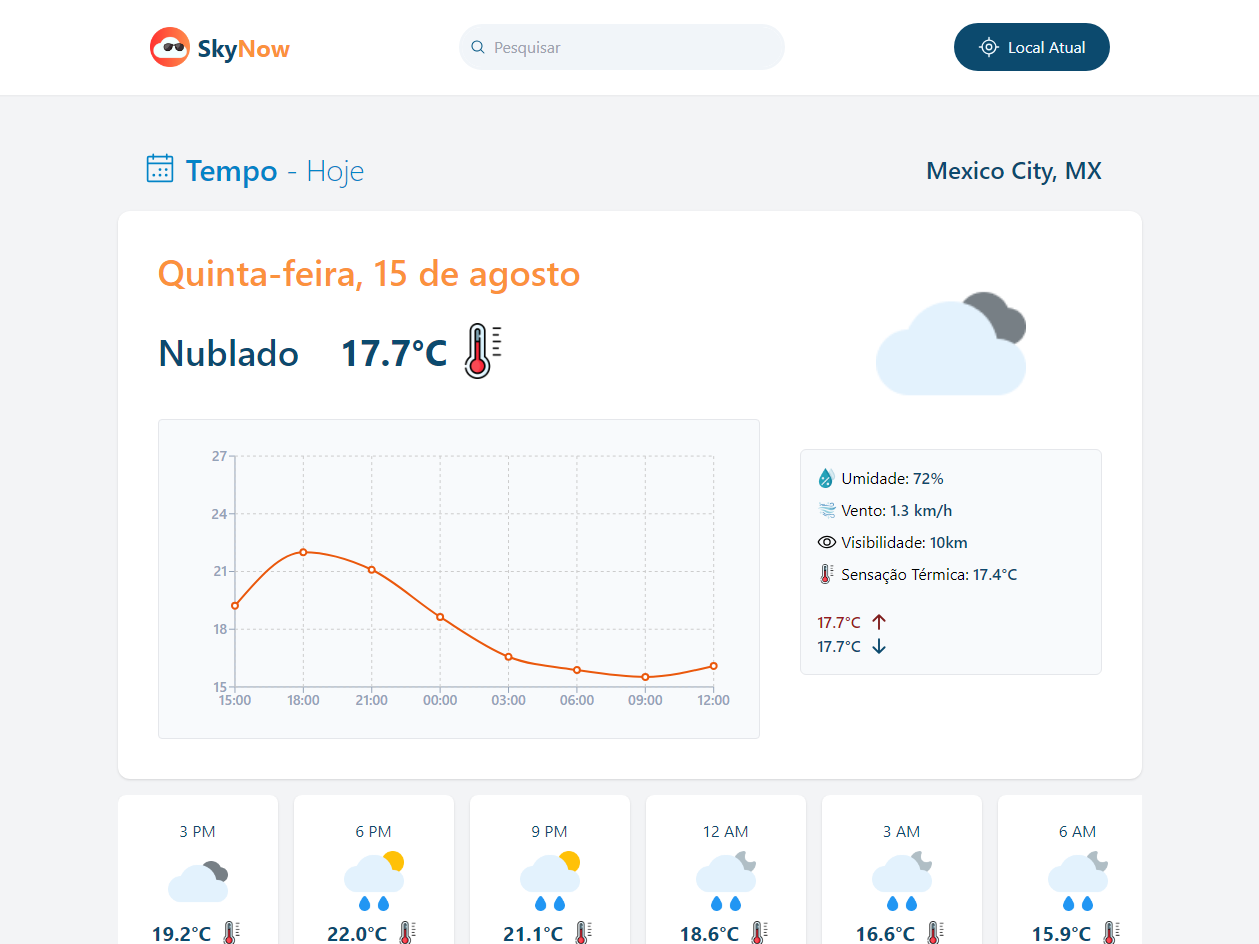
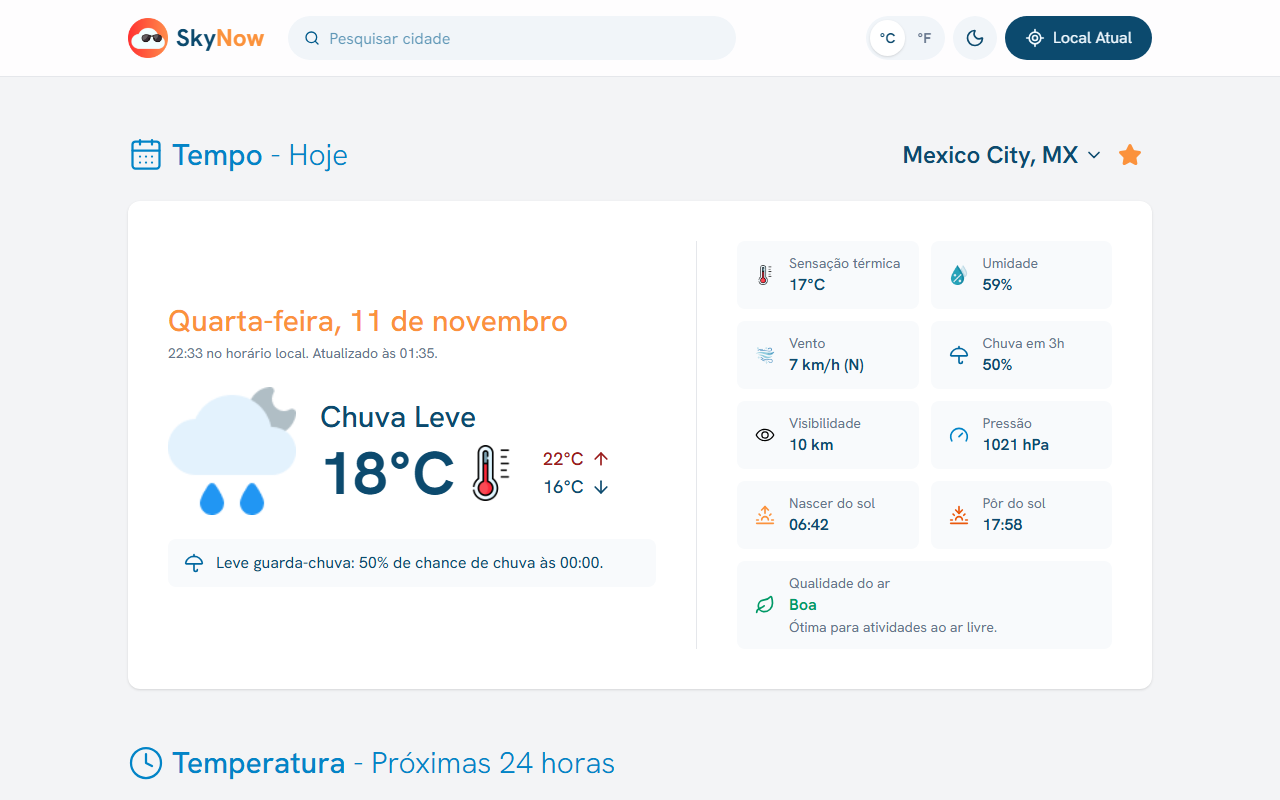
feat: add gwent remake, dev to dev and pura armonia projects

diff --git a/index.html b/index.html
@@ -216,46 +216,46 @@
                     class="window-shot"
                     src="/src/assets/sky-now.png"
                     alt="Tela do SkyNow, app de clima e previsão do tempo"
-                    width="1259"
-                    height="944"
+                    width="1280"
+                    height="800"
                   />
                 </a>
                 <a
                   class="window window-mid"
-                  href="https://roweam-clone.vercel.app"
+                  href="https://devtodev.vercel.app"
                   target="_blank"
                   rel="noopener"
-                  aria-label="Abrir o site do Roweam Clone"
+                  aria-label="Abrir o site do Dev to Dev"
                 >
                   <span class="window-bar" aria-hidden="true">
                     <span class="window-dots"></span>
-                    <span class="window-url">roweam-clone.vercel.app</span>
+                    <span class="window-url">devtodev.vercel.app</span>
                   </span>
                   <img
                     class="window-shot"
-                    src="/src/assets/roweam-clone.png"
-                    alt="Tela do Roweam Clone, site de móveis vintage"
-                    width="1256"
-                    height="942"
+                    src="/src/assets/dev-to-dev.png"
+                    alt="Tela do Dev to Dev, site de quizzes comentados de programação"
+                    width="1280"
+                    height="800"
                   />
                 </a>
                 <a
                   class="window window-front"
-                  href="https://silverhand-store.vercel.app"
+                  href="https://github.com/CristianDaniel1/gwent-remake"
                   target="_blank"
                   rel="noopener"
-                  aria-label="Abrir o site do SilverHand"
+                  aria-label="Ver o código do Gwent Remake no GitHub"
                 >
                   <span class="window-bar" aria-hidden="true">
                     <span class="window-dots"></span>
-                    <span class="window-url">silverhand-store.vercel.app</span>
+                    <span class="window-url">github.com/CristianDaniel1/gwent-remake</span>
                   </span>
                   <img
                     class="window-shot"
-                    src="/src/assets/silverhand.webp"
-                    alt="Tela do SilverHand, e-commerce de guitarras"
-                    width="1903"
-                    height="1070"
+                    src="/src/assets/gwent-remake.jpg"
+                    alt="Tela do Gwent Remake, partida do jogo de cartas"
+                    width="1440"
+                    height="810"
                   />
                 </a>
               </div>
@@ -543,39 +543,40 @@
             </div>
           </div>
 
+          <!-- Projeto em destaque: o card grande. Para trocar, mova outro <article> para cá
+               e acrescente a classe "project-featured". -->
           <article class="project project-featured" data-kind="fullstack">
             <a
-              href="https://silverhand-store.vercel.app"
+              href="https://github.com/CristianDaniel1/gwent-remake"
               class="project-media"
               target="_blank"
               rel="noopener"
-              aria-label="Abrir o site do SilverHand"
+              aria-label="Ver o código do Gwent Remake no GitHub"
             >
-              <img src="/src/assets/silverhand.webp" loading="lazy" alt="SilverHand, e-commerce de guitarras" width="520" height="400" />
+              <img
+                src="/src/assets/gwent-remake.jpg"
+                loading="lazy"
+                alt="Partida do Gwent Remake contra o computador, com uma carta ampliada"
+                width="1440"
+                height="810"
+              />
             </a>
             <div class="project-body">
-              <h3 class="project-title">SilverHand</h3>
-              <p class="project-desc">E-commerce de guitarras feito de ponta a ponta, do front-end ao banco de dados.</p>
+              <h3 class="project-title">Gwent Remake</h3>
+              <p class="project-desc">
+                Remake do Gwent, o jogo de cartas de The Witcher 3, com partidas contra o computador, multiplayer online com espectadores,
+                replays e histórico de partidas.
+              </p>
               <ul class="chips chips-small">
                 <li class="chip"><img src="/src/assets/icons/react-icon.svg" alt="" width="18" height="18" />React</li>
-                <li class="chip"><img src="/src/assets/icons/node-icon.svg" alt="" width="18" height="18" />Node.js</li>
                 <li class="chip"><img src="/src/assets/icons/ts-icon.svg" alt="" width="18" height="18" />TypeScript</li>
-                <li class="chip"><img src="/src/assets/icons/tailwind-icon.svg" alt="" width="18" height="18" />Tailwind</li>
+                <li class="chip"><img src="/src/assets/icons/nestjs.svg" alt="" width="18" height="18" />NestJS</li>
                 <li class="chip"><img src="/src/assets/icons/PostgresSQL-icon.svg" alt="" width="18" height="18" />PostgreSQL</li>
+                <li class="chip chip-plain">Socket.IO</li>
+                <li class="chip"><img src="/src/assets/icons/playwright.svg" alt="" width="18" height="18" />Playwright</li>
               </ul>
               <div class="project-links">
-                <a href="https://silverhand-store.vercel.app" target="_blank" rel="noopener" class="btn btn-primary btn-small">
-                  <svg class="icon" aria-hidden="true">
-                    <use href="#i-external" />
-                  </svg>
-                  Ver site
-                </a>
-                <a
-                  href="https://github.com/CristianDaniel1/silverhand-fullstack"
-                  target="_blank"
-                  rel="noopener"
-                  class="btn btn-ghost btn-small"
-                >
+                <a href="https://github.com/CristianDaniel1/gwent-remake" target="_blank" rel="noopener" class="btn btn-primary btn-small">
                   <svg class="icon" aria-hidden="true">
                     <use href="#i-code" />
                   </svg>
@@ -585,14 +586,104 @@
             </div>
           </article>
 
+          <!-- Para adicionar um projeto, copie um <article class="project"> abaixo.
+               data-kind: "fullstack" ou "frontend" (usado pelo filtro).
+               Sem deploy: deixe só o botão "Ver código" e aponte a imagem para o GitHub. -->
           <div class="projects-grid">
             <article class="project" data-kind="frontend">
+              <a href="https://devtodev.vercel.app" class="project-media" target="_blank" rel="noopener" aria-label="Abrir o site do Dev to Dev">
+                <img src="/src/assets/dev-to-dev.png" loading="lazy" alt="Página inicial do Dev to Dev, com uma questão de JavaScript" width="1280" height="800" />
+              </a>
+              <div class="project-body">
+                <h3 class="project-title">Dev to Dev</h3>
+                <p class="project-desc">
+                  Quizzes comentados de programação, com revisão espaçada, glossário, trilhas de estudo e uma central de
+                  materiais. Sucessor do Front-End Quiz.
+                </p>
+                <ul class="chips chips-small">
+                  <li class="chip"><img src="/src/assets/icons/angular-icon.svg" alt="" width="18" height="18" />Angular</li>
+                  <li class="chip"><img src="/src/assets/icons/ts-icon.svg" alt="" width="18" height="18" />TypeScript</li>
+                  <li class="chip"><img src="/src/assets/icons/tailwind-icon.svg" alt="" width="18" height="18" />Tailwind</li>
+                  <li class="chip"><img src="/src/assets/icons/playwright.svg" alt="" width="18" height="18" />Playwright</li>
+                </ul>
+                <div class="project-links">
+                  <a href="https://devtodev.vercel.app" target="_blank" rel="noopener" class="btn btn-primary btn-small">
+                    <svg class="icon" aria-hidden="true">
+                      <use href="#i-external" />
+                    </svg>
+                    Ver site
+                  </a>
+                  <a href="https://github.com/CristianDaniel1/dev-to-dev" target="_blank" rel="noopener" class="btn btn-ghost btn-small">
+                    <svg class="icon" aria-hidden="true">
+                      <use href="#i-code" />
+                    </svg>
+                    Ver código
+                  </a>
+                </div>
+              </div>
+            </article>
+            <article class="project" data-kind="fullstack">
+              <a
+                href="https://silverhand-store.vercel.app"
+                class="project-media"
+                target="_blank"
+                rel="noopener"
+                aria-label="Abrir o site do SilverHand"
+              >
+                <img
+                  src="/src/assets/silverhand.webp"
+                  loading="lazy"
+                  alt="SilverHand, e-commerce de guitarras"
+                  width="1903"
+                  height="1070"
+                />
+              </a>
+              <div class="project-body">
+                <h3 class="project-title">SilverHand</h3>
+                <p class="project-desc">E-commerce de guitarras feito de ponta a ponta, do front-end ao banco de dados.</p>
+                <ul class="chips chips-small">
+                  <li class="chip"><img src="/src/assets/icons/react-icon.svg" alt="" width="18" height="18" />React</li>
+                  <li class="chip"><img src="/src/assets/icons/node-icon.svg" alt="" width="18" height="18" />Node.js</li>
+                  <li class="chip"><img src="/src/assets/icons/ts-icon.svg" alt="" width="18" height="18" />TypeScript</li>
+                  <li class="chip"><img src="/src/assets/icons/tailwind-icon.svg" alt="" width="18" height="18" />Tailwind</li>
+                  <li class="chip"><img src="/src/assets/icons/PostgresSQL-icon.svg" alt="" width="18" height="18" />PostgreSQL</li>
+                </ul>
+                <div class="project-links">
+                  <a href="https://silverhand-store.vercel.app" target="_blank" rel="noopener" class="btn btn-primary btn-small">
+                    <svg class="icon" aria-hidden="true">
+                      <use href="#i-external" />
+                    </svg>
+                    Ver site
+                  </a>
+                  <a
+                    href="https://github.com/CristianDaniel1/silverhand-fullstack"
+                    target="_blank"
+                    rel="noopener"
+                    class="btn btn-ghost btn-small"
+                  >
+                    <svg class="icon" aria-hidden="true">
+                      <use href="#i-code" />
+                    </svg>
+                    Ver código
+                  </a>
+                </div>
+              </div>
+            </article>
+            <article class="project" data-kind="frontend">
               <a href="https://sky-now.vercel.app" class="project-media" target="_blank" rel="noopener" aria-label="Abrir o site do SkyNow">
-                <img src="/src/assets/sky-now.png" loading="lazy" alt="App de clima e previsão do tempo" width="520" height="400" />
+                <img
+                  src="/src/assets/sky-now.png"
+                  loading="lazy"
+                  alt="SkyNow, app de clima e previsão do tempo"
+                  width="1280"
+                  height="800"
+                />
               </a>
               <div class="project-body">
                 <h3 class="project-title">SkyNow</h3>
-                <p class="project-desc">App de clima e previsão do tempo.</p>
+                <p class="project-desc">
+                  App de clima com previsão para 5 dias, qualidade do ar e favoritos. Pode ser instalado (PWA) e funciona offline.
+                </p>
                 <ul class="chips chips-small">
                   <li class="chip"><img src="/src/assets/icons/react-icon.svg" alt="" width="18" height="18" />React</li>
                   <li class="chip"><img src="/src/assets/icons/ts-icon.svg" alt="" width="18" height="18" />TypeScript</li>
@@ -617,40 +708,36 @@
             </article>
             <article class="project" data-kind="frontend">
               <a
-                href="https://frontend-quiz-cris.vercel.app"
+                href="https://github.com/CristianDaniel1/pura-armonia"
                 class="project-media"
                 target="_blank"
                 rel="noopener"
-                aria-label="Abrir o site do Front-End Quiz"
+                aria-label="Ver o código do Pura Armonía no GitHub"
               >
                 <img
-                  src="/src/assets/front-end-quiz.png"
+                  src="/src/assets/pura-armonia.jpg"
                   loading="lazy"
-                  alt="Site de quizzes de tecnologias front-end"
-                  width="520"
-                  height="400"
+                  alt="Página inicial do site da banda Pura Armonía"
+                  width="1440"
+                  height="900"
                 />
               </a>
               <div class="project-body">
-                <h3 class="project-title">Front-End Quiz</h3>
-                <p class="project-desc">Quizzes sobre tecnologias front-end.</p>
+                <h3 class="project-title">Pura Armonía</h3>
+                <p class="project-desc">
+                  Site bilíngue de uma banda de cumbia boliviana de São Paulo, com videoclipes, galeria e contato pelo WhatsApp.
+                </p>
                 <ul class="chips chips-small">
-                  <li class="chip"><img src="/src/assets/icons/react-icon.svg" alt="" width="18" height="18" />React</li>
+                  <li class="chip"><img src="/src/assets/icons/angular-icon.svg" alt="" width="18" height="18" />Angular</li>
                   <li class="chip"><img src="/src/assets/icons/ts-icon.svg" alt="" width="18" height="18" />TypeScript</li>
                   <li class="chip"><img src="/src/assets/icons/tailwind-icon.svg" alt="" width="18" height="18" />Tailwind</li>
                 </ul>
                 <div class="project-links">
-                  <a href="https://frontend-quiz-cris.vercel.app" target="_blank" rel="noopener" class="btn btn-primary btn-small">
-                    <svg class="icon" aria-hidden="true">
-                      <use href="#i-external" />
-                    </svg>
-                    Ver site
-                  </a>
                   <a
-                    href="https://github.com/CristianDaniel1/front-end-quiz"
+                    href="https://github.com/CristianDaniel1/pura-armonia"
                     target="_blank"
                     rel="noopener"
-                    class="btn btn-ghost btn-small"
+                    class="btn btn-primary btn-small"
                   >
                     <svg class="icon" aria-hidden="true">
                       <use href="#i-code" />
